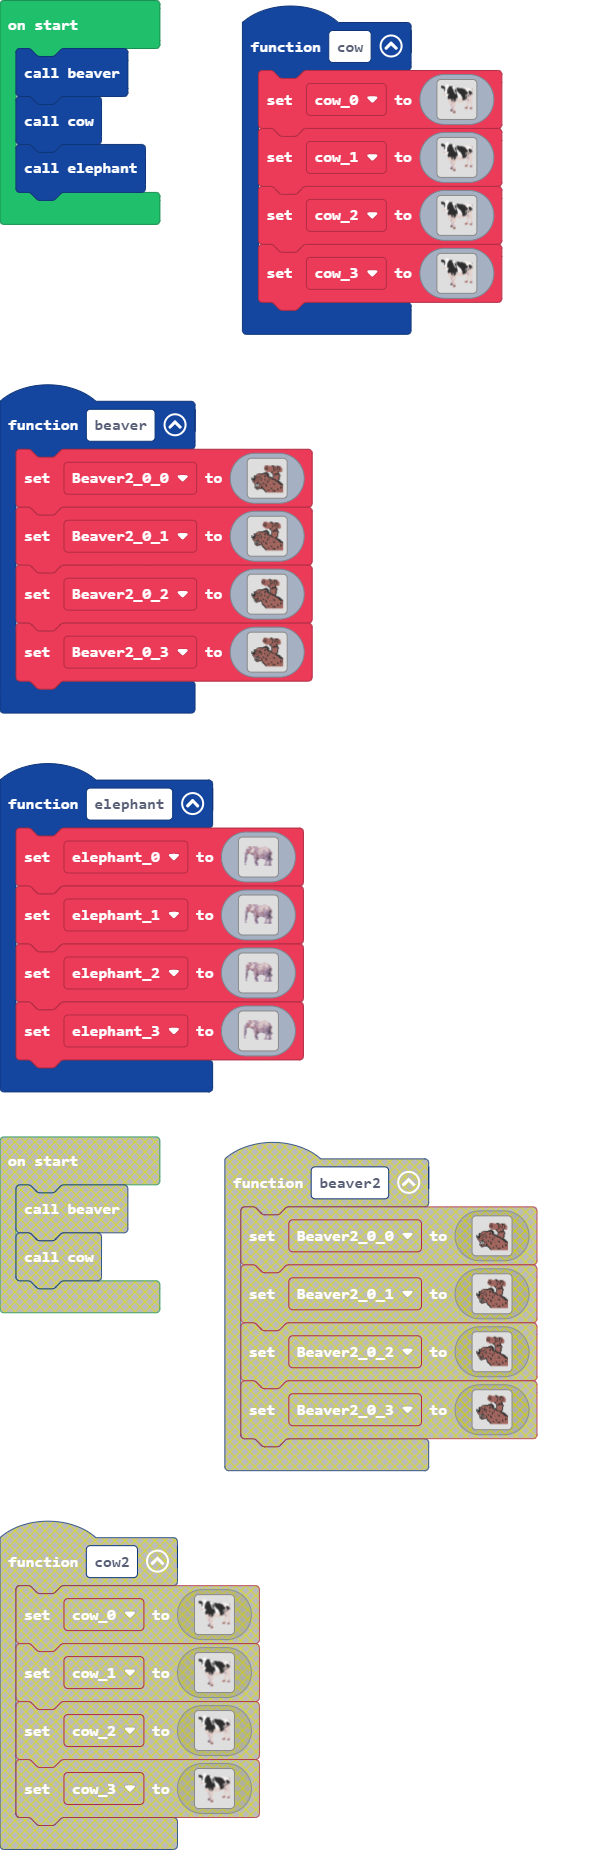
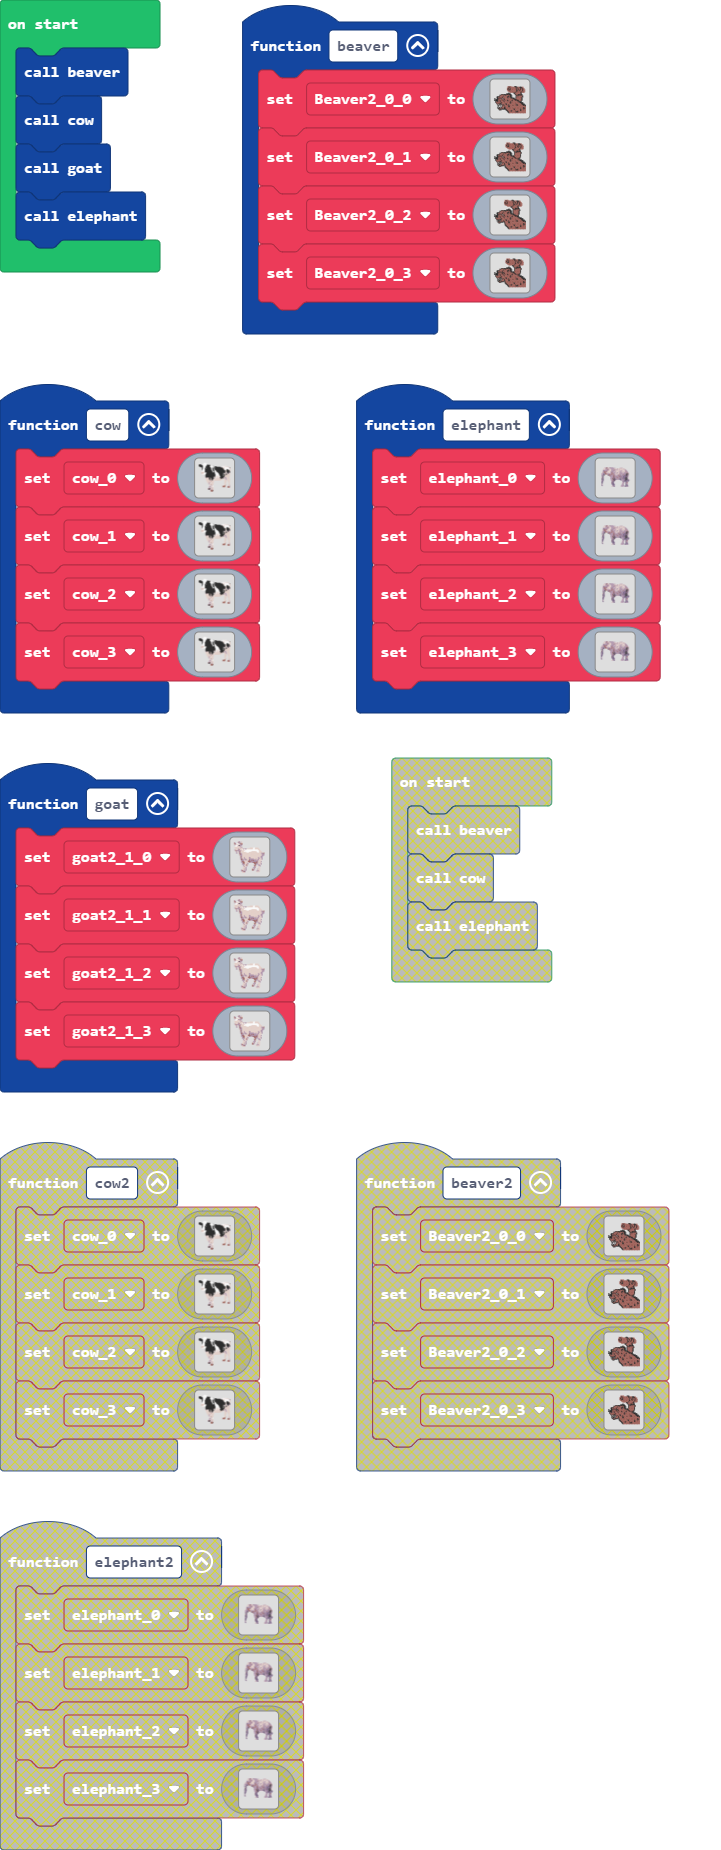
Update main.blocks, main.ts, images.g.jres, images.g.ts

diff --git a/images.g.ts b/images.g.ts
@@ -610,6 +610,170 @@ ffffff.f111111111ffffff.........................................
 .................................................................
 .................................................................
 `;
+            case "z0P*e":
+            case "goat0":return img`
+.....db.............................
+.....bbdbd..........................
+eb..dbeb.d..........................
+deb1111bee..........................
+.bddddddbb..........................
+..111bfbb...........................
+..11dddbd...........................
+.dddddddbb..........................
+.ddddddddd.........dddd11dddd.......
+.ddddbdbdddbdbb.ddddddd11ddddd......
+.bdddbeddd1d11d11111111111111dd.....
+..ebbbbbbdddd11111111111111111dd....
+...bd.bedddd111111111dddddd111ddd...
+...bd.bbddddddd111dddddddddd11dddd..
+...b..bebddddddddddddddddddddddddb.e
+.......ebbdddddddddddddddddddddddbbb
+.......ebbddddddddddddddddddddddddbb
+........bbdddddddddddddddddddddddbb.
+........ebddddddddddddddddddddddbb..
+........ebddbdddddbbdddddddddbddbb..
+........bbddbdddddbbdddddddddbbddb..
+........bebdbbbdddbbbbbbddbddbdddb..
+.........ebbdbbbddebbbbbbbbdbbddd...
+.........bbbdddddbebbebebbbbbdddd...
+.........beebddddeeebbbbbbbebdddb...
+.........bbeedddddbbdbbeebeebdddd...
+..........beedddb.......eeebbdddb...
+..........bbbdddb.......beb.bdddb...
+...........bbdded.......deb..bbd....
+...........bdddb........eed...bb....
+...........dbdd.........bbd..dd.....
+...........dddb........bbb...dd.....
+...........dddb........dbd...dd.....
+..........ddbdb.......ebb...bdd.....
+.........bddddb.......ebd...ddd.....
+.........bebbb.............bbbd.....
+..........dbeb.............ddd......
+..........ddd.......................
+`;
+            case "ikMw@_}_(^ZpHnoVou-o":
+            case "goat1":return img`
+.....db.............................
+.....bbdbd..........................
+eb..dbeb.d..........................
+deb1111bee..........................
+.bddddddbb..........................
+..111bfbb...........................
+..11dddbd...........................
+.dddddddbb..........................
+.ddddddddd.........dddd11dddd.......
+.ddddbdbdddbdbb.ddddddd11ddddd......
+.bdddbeddd1d11d11111111111111dd.....
+..ebbbbbbdddd11111111111111111dd....
+...bd.bedddd111111111dddddd111ddd...
+...bd.bbddddddd111dddddddddd11dddd..
+...b..bebddddddddddddddddddddddddb.e
+.......ebbdddddddddddddddddddddddbbb
+.......ebbddddddddddddddddddddddddbb
+........bbdddddddddddddddddddddddbb.
+........ebddddddddddddddddddddddbb..
+........ebddbdddddbbdddddddddbddbb..
+........bbddbdddddbbdddddddddbbddb..
+........bebdbbbdddbbbbbbddbddbdddb..
+.........ebbdbbbddebbbbbbbbdbbddd...
+.........bbbdddddbebbebebbbbbdddd...
+.........beebddddeeebbbbbbbebdddb...
+.........bbeedddddbbdbbeebeebdddd...
+..........beedddb.......eeebbdddb...
+..........bbbdddb.......beb.bdddb...
+...........bbdded.......deb..bbd....
+...........bdddb........eed...bb....
+...........dbdd.........bbd..dd.....
+...........dddb........bbb...dd.....
+...........dddb........dbd...dd.....
+..........ddbdb.......ebb...bdd.....
+.........bddddb.......ebd...ddd.....
+.........bebbb.............bbbd.....
+..........dbeb.............ddd......
+..........ddd.......................
+`;
+            case "kR1e2efA#q=Xj=K1l~Ka":
+            case "goat2":return img`
+.....db.............................
+.....bbdbd..........................
+eb..dbeb.d..........................
+deb1111bee..........................
+.bddddddbb..........................
+..111bfbb...........................
+..11dddbd...........................
+.dddddddbb..........................
+.ddddddddd.........dddd11dddd.......
+.ddddbdbdddbdbb.ddddddd11ddddd......
+.bdddbeddd1d11d11111111111111dd.....
+..ebbbbbbdddd11111111111111111dd....
+...bd.bedddd111111111dddddd111ddd...
+...bd.bbddddddd111dddddddddd11dddd..
+...b..bebddddddddddddddddddddddddb.e
+.......ebbdddddddddddddddddddddddbbb
+.......ebbddddddddddddddddddddddddbb
+........bbdddddddddddddddddddddddbb.
+........ebddddddddddddddddddddddbb..
+........ebddbdddddbbdddddddddbddbb..
+........bbddbdddddbbdddddddddbbddb..
+........bebdbbbdddbbbbbbddbddbdddb..
+.........ebbdbbbddebbbbbbbbdbbddd...
+.........bbbdddddbebbebebbbbbdddd...
+.........beebddddeeebbbbbbbebdddb...
+.........bbeedddddbbdbbeebeebdddd...
+..........beedddb.......eeebbdddb...
+..........bbbdddb.......beb.bdddb...
+...........bbdded.......deb..bbd....
+...........bdddb........eed...bb....
+...........dbdd.........bbd..dd.....
+...........dddb........bbb...dd.....
+...........dddb........dbd...dd.....
+..........ddbdb.......ebb...bdd.....
+.........bddddb.......ebd...ddd.....
+.........bebbb.............bbbd.....
+..........dbeb.............ddd......
+..........ddd.......................
+`;
+            case "nN#I!bf1x:20L!^+}kM`":
+            case "goat3":return img`
+.....db.............................
+.....bbdbd..........................
+eb..dbeb.d..........................
+deb1111bee..........................
+.bddddddbb..........................
+..111bbbb...........................
+..11dddbd...........................
+.dddddddbb..........................
+.ddddddddd.........dddd11dddd.......
+.ddddbdbdddbdbb.ddddddd11ddddd......
+.bdddbeddd1d11d11111111111111dd.....
+..ebbbbbbdddd11111111111111111dd....
+...bd.bedddd111111111dddddd111ddd...
+...bd.bbddddddd111dddddddddd11dddd..
+...b..bebddddddddddddddddddddddddb.e
+.......ebbdddddddddddddddddddddddbbb
+.......ebbddddddddddddddddddddddddbb
+........bbdddddddddddddddddddddddbb.
+........ebddddddddddddddddddddddbb..
+........ebddbdddddbbdddddddddbddbb..
+........bbddbdddddbbdddddddddbbddb..
+........bebdbbbdddbbbbbbddbddbdddb..
+.........ebbdbbbddebbbbbbbbdbbddd...
+.........bbbdddddbebbebebbbbbdddd...
+.........beebddddeeebbbbbbbebdddb...
+.........bbeedddddbbdbbeebeebdddd...
+..........beedddb.......eeebbdddb...
+..........bbbdddb.......beb.bdddb...
+...........bbdded.......deb..bbd....
+...........bdddb........eed...bb....
+...........dbdd.........bbd..dd.....
+...........dddb........bbb...dd.....
+...........dddb........dbd...dd.....
+..........ddbdb.......ebb...bdd.....
+.........bddddb.......ebd...ddd.....
+.........bebbb.............bbbd.....
+..........dbeb.............ddd......
+..........ddd.......................
+`;
         }
         return null;
     })

diff --git a/main.ts b/main.ts
@@ -1,3 +1,9 @@
+function goat () {
+    goat2_1_0 = assets.image`goat0`
+    goat2_1_1 = assets.image`goat1`
+    goat2_1_2 = assets.image`goat2`
+    goat2_1_3 = assets.image`goat3`
+}
 function elephant () {
     elephant_0 = assets.image`Elephant0`
     elephant_1 = assets.image`Elephant1`
@@ -192,6 +198,11 @@ let elephant_3: Image = null
 let elephant_2: Image = null
 let elephant_1: Image = null
 let elephant_0: Image = null
+let goat2_1_3: Image = null
+let goat2_1_2: Image = null
+let goat2_1_1: Image = null
+let goat2_1_0: Image = null
 beaver()
 cow()
+goat()
 elephant()
